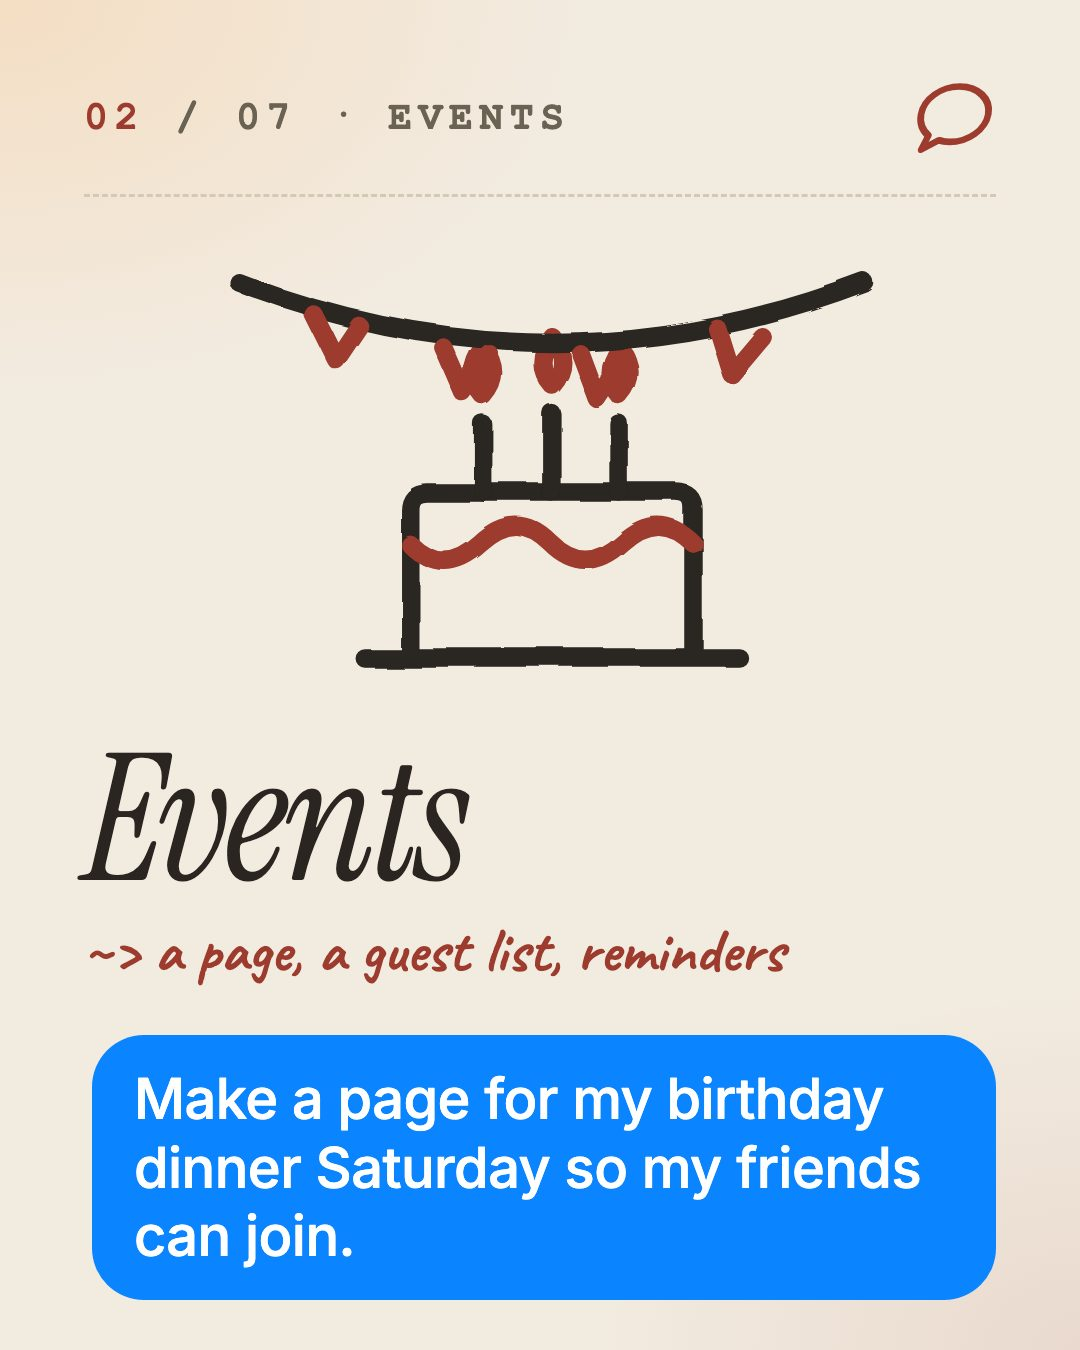
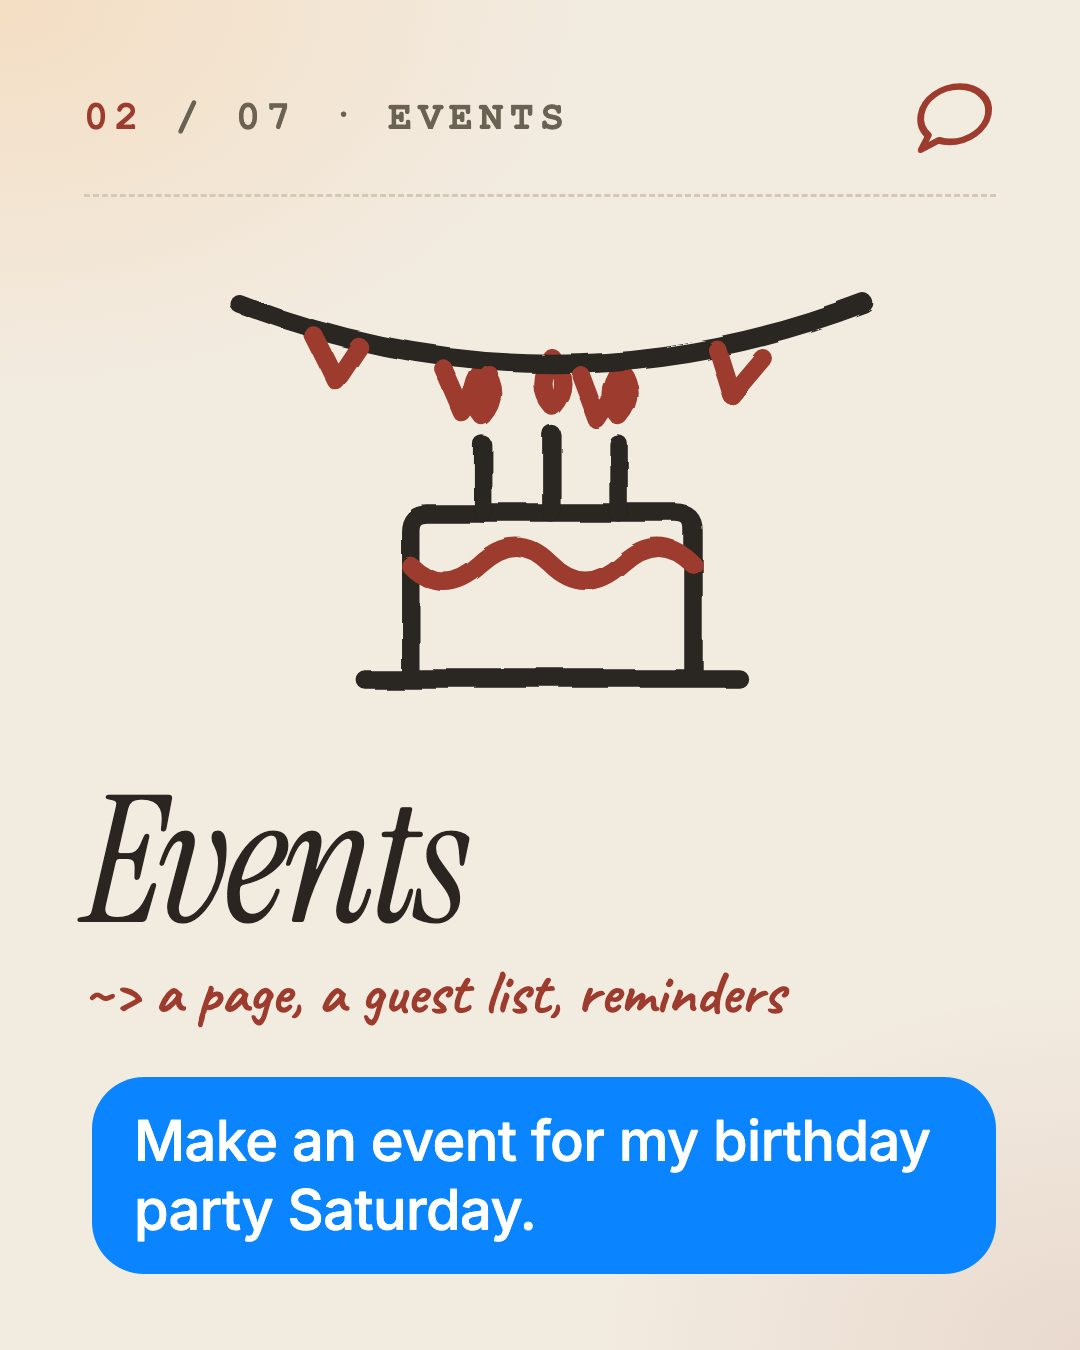
Welcome Events card: 'Make an event for my birthday party Saturday.' (no 'page'); owner one-card send (--card=<key>); render script arg fix

diff --git a/scripts/welcome-to-owner.js b/scripts/welcome-to-owner.js
@@ -61,6 +61,27 @@ export async function sendWelcomeToOwner({ id = SEND_ID, router, marker = marker
   return { outcome: results.every(x => x.ok) && results.length === rows.length ? "sent" : "partly", sent: results.filter(x => x.ok).length, of: rows.length, pictures, carousel, results };
 }
 
+/**
+ * One card alone, once (11-11: the redrawn Events card), so the owner sees a change without the whole
+ * welcome again. Same picture send as the fall-back path; marker per card + its set version.
+ *   sudo -u reason node --env-file=.env scripts/welcome-to-owner.js --card=events --confirm=welcome-1111
+ */
+export async function sendCardToOwner({ key, router, dataDir = config.dataDir }) {
+  if (welcome.mode() === "off") return { outcome: "refused", why: "REASON_WELCOME_CARDS is off" };
+  const c = welcome.CARDS.find(x => x.key === key);
+  if (!c) return { outcome: "failed", why: `no card called ${key}` };
+  const marker = join(dataDir, `welcome-to-owner-card-${key}-${welcome.setVersion()}.sent`);
+  try { writeFileSync(marker, "pending\n", { flag: "wx" }); } catch (e) {
+    return e?.code === "EEXIST" ? { outcome: "already" } : { outcome: "failed", why: `cannot write ${marker}: ${e?.code ?? e}` };
+  }
+  let r;
+  try { r = ownerRecipient(); } catch (e) { rmSync(marker, { force: true }); return { outcome: "failed", why: (e?.message ?? String(e)).split("\n")[0] }; }
+  const res = await router.sendMedia({ channel: r.channel, to: r.address, text: "", file: c.file, mimeType: "image/jpeg", filename: `${c.key}.jpg`, conversationId: r.conversationId, toOwner: true, idempotencyKey: `welcome-owner-card:${key}:${welcome.setVersion()}` }).catch(e => ({ ok: false, error: e?.message }));
+  if (!res?.ok && !res?.queued) { rmSync(marker, { force: true }); return { outcome: "failed", why: res?.error ?? "unknown" }; }
+  writeFileSync(marker, `${new Date().toISOString()} ${res.ok ? "sent" : "queued"}\n`);
+  return { outcome: res.ok ? "sent" : "queued" };
+}
+
 async function main() {
   if (!process.argv.includes(`--confirm=${SEND_ID}`)) {
     console.error(`refusing to send: add --confirm=${SEND_ID} to say you mean it`);
@@ -73,10 +94,16 @@ async function main() {
   const router = new Router({ log: () => {} });
   router.register(new SendblueChannel());
   router.register(new LinqChannel());
+  const card = process.argv.find(a => a.startsWith("--card="))?.slice(7);
+  if (card) {
+    const one = await sendCardToOwner({ key: card, router });
+    console.log(`card ${card} to owner: ${one.outcome}${one.why ? ` — ${one.why}` : ""}`);
+    process.exit(["sent", "queued", "already"].includes(one.outcome) ? 0 : 1);
+  }
   const r = await sendWelcomeToOwner({ router, log: (x) => { if (x.sent_as_text || x.failed) console.log(JSON.stringify(x)); } });
   console.log(`welcome to owner: ${r.outcome}${r.of ? ` ${r.sent}/${r.of} messages, ${r.carousel ? "cards as ONE carousel" : `${r.pictures} cards as single pictures`}` : ""}${r.why ? ` — ${r.why}` : ""}`);
   for (const x of r.results ?? []) if (!x.ok) console.log(`  #${x.n} held: ${String(x.why).slice(0, 160)}`);
-  process.exit(process.exitCode ?? 0); // the database and channel keep handles open
+  process.exit(["sent", "partly", "already"].includes(r.outcome) ? 0 : 1); // the database and channel keep handles open
 }
 
 if (process.argv[1] && import.meta.url === pathToFileURL(process.argv[1]).href) {

diff --git a/src/welcome.js b/src/welcome.js
@@ -28,7 +28,7 @@ const DIR = join(dirname(fileURLToPath(import.meta.url)), "..", "assets", "welco
 
 export const CARDS = Object.freeze([
   { key: "calls", eyebrow: "CALLS", title: "Calls", note: "i make the call for you", example: "Call my dentist and move my cleaning to next week." },
-  { key: "events", eyebrow: "EVENTS", title: "Events", note: "a page, a guest list, reminders", example: "Make a page for my birthday dinner Saturday so my friends can join." },
+  { key: "events", eyebrow: "EVENTS", title: "Events", note: "a page, a guest list, reminders", example: "Make an event for my birthday party Saturday." },
   { key: "reminders", eyebrow: "REMINDERS", title: "Reminders", note: "once, or every month", example: "Remind me to pay rent on the 1st." },
   { key: "shopping", eyebrow: "SHOPPING", title: "Shopping", note: "nothing is bought without your yes", example: "Reorder my CeraVe lotion." },
   { key: "food", eyebrow: "FOOD", title: "Food", note: "you see the total before it's placed", example: "Get me a chicken burrito for dinner." },

diff --git a/test/welcome-cards.test.js b/test/welcome-cards.test.js
@@ -111,6 +111,9 @@ test("seven cards, in the agreed order, each a small JPEG on disk with a title a
   assert.equal(welcome.eyebrowOf(welcome.CARDS[0]), "01 / 07 · CALLS");
   assert.equal(welcome.textLine(welcome.CARDS[0]), 'Calls: "Call my dentist and move my cleaning to next week."');
   assert.ok(!welcome.CARDS.some(c => /message|inbox|email|whatsapp/i.test(`${c.title} ${c.example}`)), "no card promises reading their messages or inbox");
+  // Owner 11-11: the Events card asks for an event, never "a page".
+  assert.equal(welcome.CARDS[1].example, "Make an event for my birthday party Saturday.");
+  assert.ok(!/\bpage\b/i.test(welcome.CARDS[1].example));
 });
 
 test("the switch: off by default, owner, on", () => {
